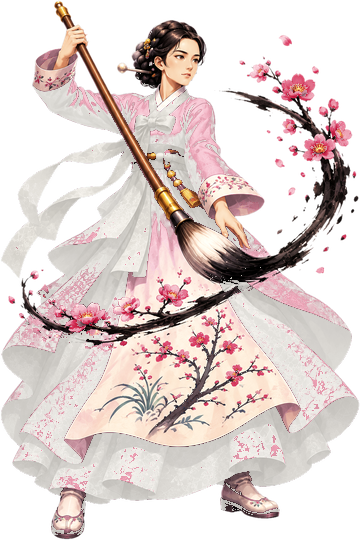
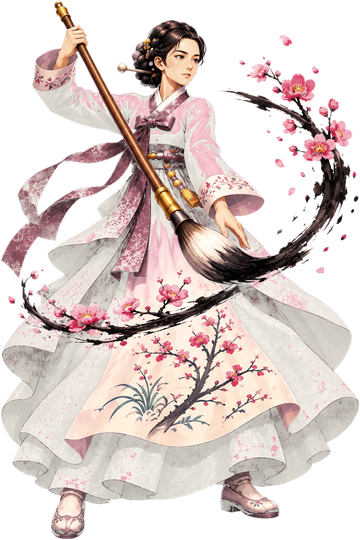
ui: 사임당 card keeps a rose ribbon and sash so the figure no longer washes out; card recolour moved into make_hero_cards (before the ink tone)

diff --git a/tools/art/recolor_saimdang.py b/tools/art/recolor_saimdang.py
@@ -1,9 +1,9 @@
 """사임당 색 고치기 (사용자 의견 2026-11-21: "보라가 너무 유치하다, 뒤(치마)는 흰색, 나머지는 분홍에 가깝게").
 
   python tools/art/recolor_saimdang.py
-구운 스프라이트(assets/sprites/shin_saimdang/*.png)와 영웅 카드(assets/ui/heroes/shin_saimdang.png)를 고친다.
-진한 보라(치마 겉) → 미색, 옅은 보라·분홍(저고리 등) → 은은한 분홍. 명암은 남긴다.
-다시 굽거나(meshy_pipeline) 카드를 다시 만들면(make_hero_cards.py) 그 뒤에 이것을 다시 돌린다.
+구운 스프라이트(assets/sprites/shin_saimdang/*.png)를 고친다. 영웅 카드는 make_hero_cards.py가 같은 함수(soften)로 고친다.
+진한 보라(치마 겉) → 미색, 옅은 보라·분홍(저고리 등) → 은은한 분홍, 가장 진한 보라(고름·띠) → 진분홍. 명암은 남긴다.
+보라색 원본으로 다시 구우면(meshy_pipeline) 그 뒤에 이것을 다시 돌린다.
 이미 고친 파일은 지문(recolor_saimdang.done.json)으로 알아보고 건너뛴다.
 """
 import glob
@@ -16,7 +16,7 @@ from PIL import Image
 
 ROOT = os.path.abspath(os.path.join(os.path.dirname(__file__), "..", ".."))
 
-def soften(img, deep_s=0.30, white=(0.70, 0.30), pink_hue=345.0, pink_cap=0.33):
+def soften(img, deep_s=0.30, white=(0.64, 0.33), pink_hue=345.0, pink_cap=0.33, sash_s=0.66):
     """보라·분홍 계열(240~355도): 진한 보라(채도 > deep_s, 치마 겉) → 미색, 옅은 보라·분홍 → 은은한 분홍. 명암은 남긴다."""
     rgba = img.convert("RGBA")
     a = np.asarray(rgba).astype(np.float32) / 255.0
@@ -36,6 +36,10 @@ def soften(img, deep_s=0.30, white=(0.70, 0.30), pink_hue=345.0, pink_cap=0.33):
     w_rgb = to_rgb(wh_h, wh_s, wh_v)
     p_rgb = to_rgb(pk_h, pk_s, pk_v)
     tgt = p_rgb * (1 - deep[..., None]) + w_rgb * deep[..., None]
+    # 가장 진한 보라(고름·띠)는 진분홍으로 남긴다: 전부 희면 그림이 떠 보인다
+    sash = (np.clip((s - sash_s) / 0.08, 0, 1) * purple)[..., None]
+    r_rgb = to_rgb(pink_hue, np.clip(s * 0.62, 0.35, 0.55), v * 0.97)
+    tgt = tgt * (1 - sash) + r_rgb * sash
     w = np.clip((s - 0.04) / 0.08, 0, 1) * band
     res = a[..., :3] * (1 - w[..., None]) + tgt * w[..., None]
     return Image.fromarray(np.uint8(np.clip(np.dstack([res, a[..., 3:]]), 0, 1) * 255), "RGBA")
@@ -53,7 +57,6 @@ def sha(path: str) -> str:
 
 def main() -> None:
     files = sorted(glob.glob(os.path.join(ROOT, "assets/sprites/shin_saimdang/*.png")))
-    files.append(os.path.join(ROOT, "assets/ui/heroes/shin_saimdang.png"))
     done = json.load(open(DONE_FILE, encoding="utf-8")) if os.path.exists(DONE_FILE) else {}
     for f in files:
         key = os.path.relpath(f, ROOT).replace("\\", "/")

diff --git a/tools/art/make_hero_cards.py b/tools/art/make_hero_cards.py
@@ -8,10 +8,14 @@
 """
 import argparse
 import os
+import sys
 
 import numpy as np
 from PIL import Image, ImageEnhance, ImageFilter
 from scipy import ndimage
+
+sys.path.insert(0, os.path.dirname(os.path.abspath(__file__)))
+from recolor_saimdang import soften  # noqa: E402
 
 ROOT = os.path.abspath(os.path.join(os.path.dirname(__file__), "..", ".."))
 HEROES = ["yi_sun_sin", "gwanggaeto", "sejong", "shin_saimdang"]
@@ -68,6 +72,8 @@ def main() -> None:
         if not os.path.exists(src):
             src = os.path.join(ROOT, f"assets/concept/redesign/heroes/{h}.png")  # 없으면 A자세 (3D용)
         img = cut_out(Image.open(src))
+        if h == "shin_saimdang":  # 보라 → 연분홍·미색·진분홍 (수묵톤으로 색을 빼기 전에 해야 진한 띠가 가려진다)
+            img = soften(img)
         if a.ink:
             img = ink_tone(img)
         img = img.resize((WIDTH, round(img.height * WIDTH / img.width)), Image.LANCZOS)
